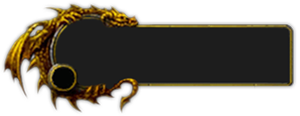
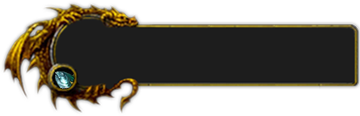
announcements added find fish, resized slightly

diff --git a/css/announcements.css b/css/announcements.css
@@ -23,12 +23,13 @@ div.content {
   text-align: left;
   margin: 20px;
   margin-left:35px;
-  width: 208px;
+  width: 268px;
   height:74px;
   font-weight: normal;
   padding: 37px 20px 8px 72px;
   z-index:9999;
   background:url(../images/announcehead.png);
+  background-repeat:no-repeat;
   color:#B39265;
 }  
 
